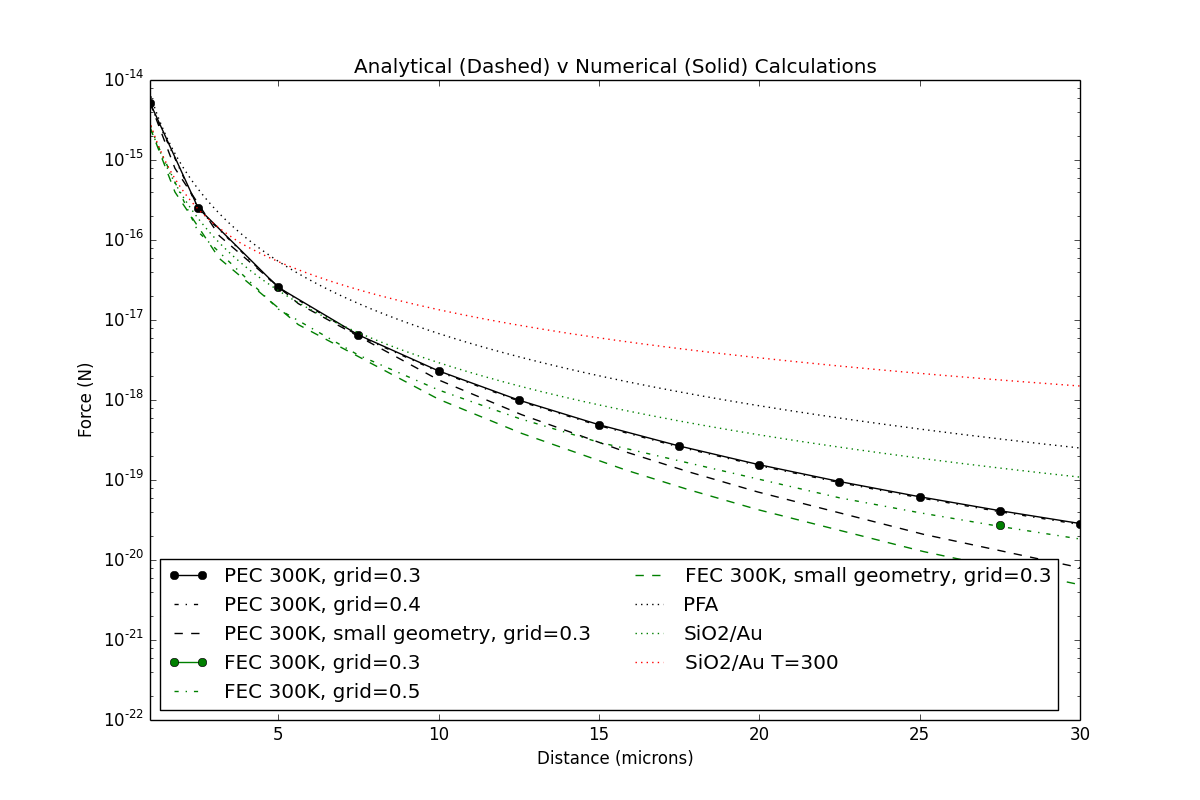
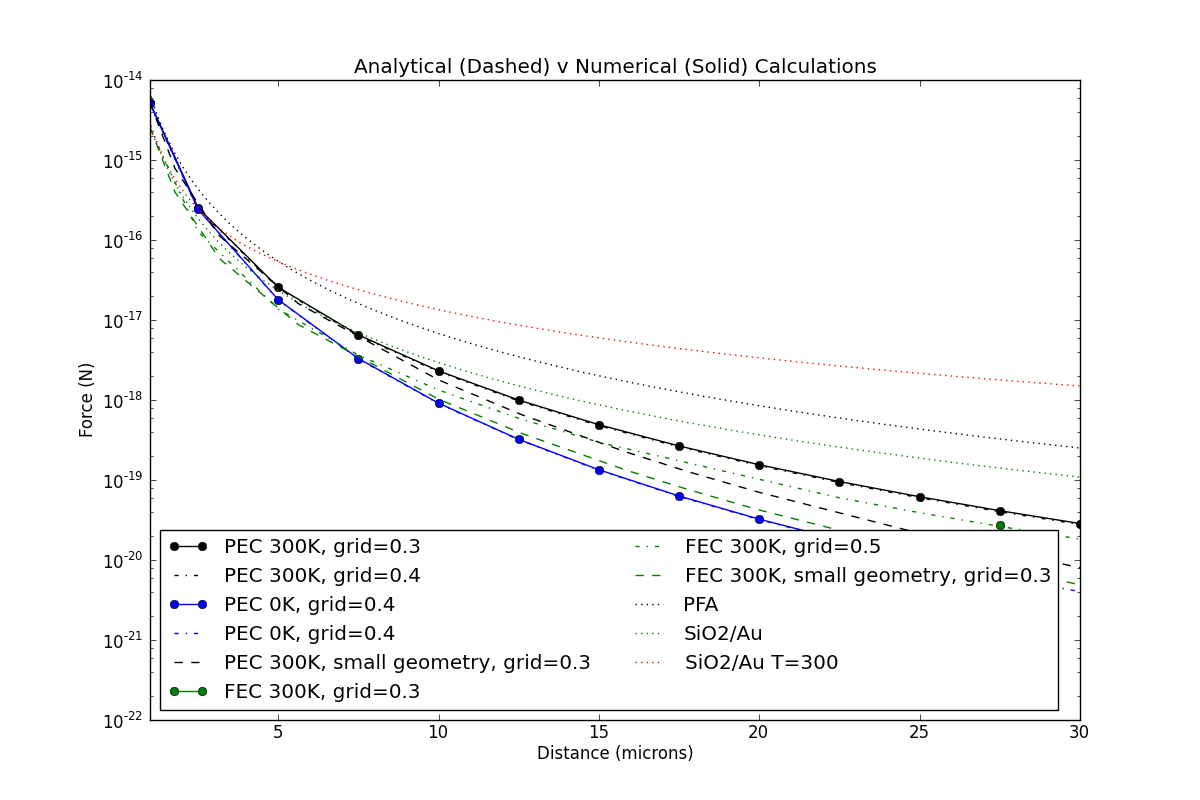
adding better figure

diff --git a/casimir/scuffCode/CubeSphereBest/compare.py b/casimir/scuffCode/CubeSphereBest/compare.py
@@ -14,6 +14,18 @@ d1t=d1t[inds]
 f1t=f1t[inds]
 g1t=g1t[inds]
 
+d1,g1,e1,ee1,f1,ef1,s=numpy.loadtxt("PEC_combined_results.txt",unpack=True,skiprows=1)
+f1=-f1*31.6e-15
+inds=argsort(d1)
+d1=d1[inds]
+f1=f1[inds]
+g1=g1[inds]
+s=s[inds]
+inds=numpy.where(s == 0)
+d1=d1[inds]
+f1=f1[inds]
+g1=g1[inds]
+
 d1ts,g1ts,e1ts,ee1ts,f1ts,ef1ts,sts=numpy.loadtxt("../CubeSphere/PEC_combined_results_temp.txt",unpack=True,skiprows=1)
 f1ts=-f1ts*31.6e-15
 inds=argsort(d1ts)
@@ -62,6 +74,12 @@ inds = numpy.where(g1t == gst)
 plot(d1t[inds],f1t[inds],'-o',label="PEC 300K, grid="+str(gst),color="black")
 inds = numpy.where(g1t == 0.5)
 plot(d1t[inds],f1t[inds],'-.',label="PEC 300K, grid="+str(0.4),color="black")
+
+gs=numpy.min(g1)
+inds = numpy.where(g1 == gs)
+plot(d1[inds],f1[inds],'-o',label="PEC 0K, grid="+str(gs),color="blue")
+inds = numpy.where(g1 == 0.5)
+plot(d1[inds],f1[inds],'-.',label="PEC 0K, grid="+str(0.4),color="blue")
 
 gst=numpy.min(g1ts)
 inds = numpy.where(g1ts == gst)
